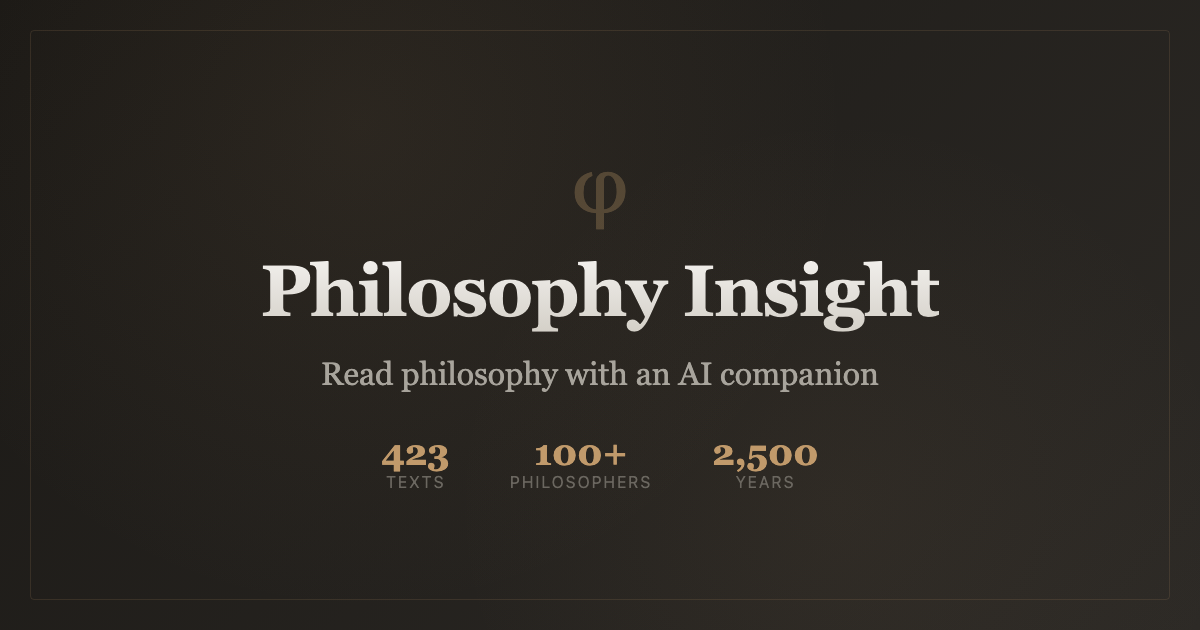
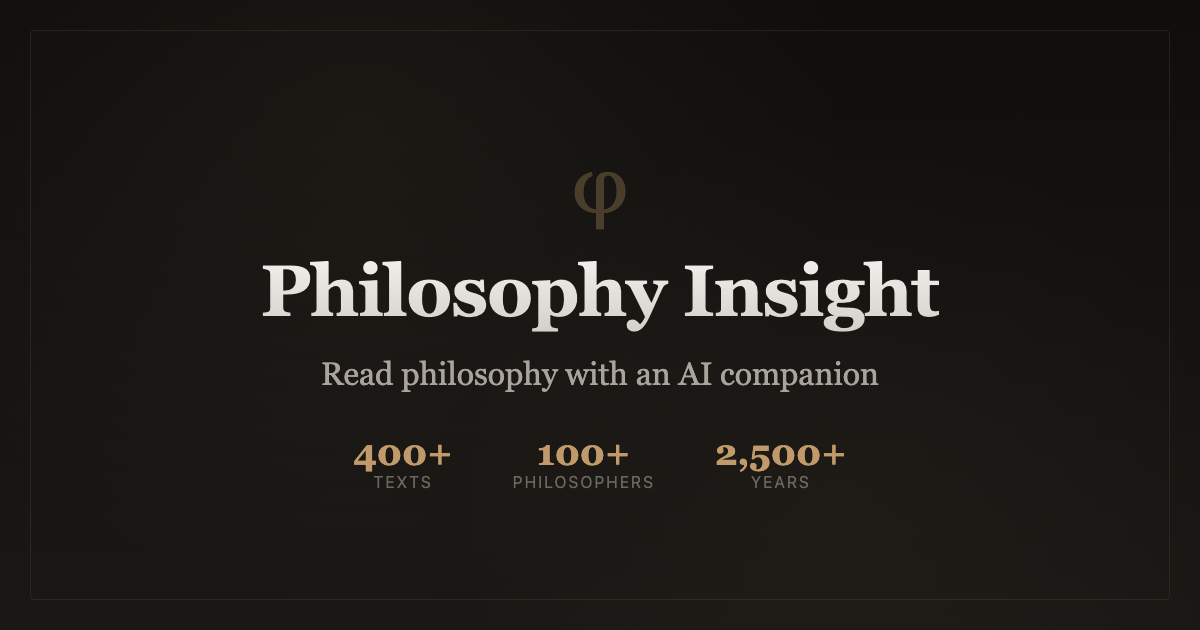
Update OG image and document new features in CLAUDE.md
- Regenerate OG image with darker tone and updated stats (400+)
- Document rate limiting configuration
- Add Privacy.tsx to architecture
- Add Deployment & SEO section with production URL

Changed region(s): [[0.5858, 0.6937, 0.7092, 0.7841], [0.4317, 0.6937, 0.555, 0.7841], [0.2775, 0.6937, 0.37, 0.7841]]

diff --git a/CLAUDE.md b/CLAUDE.md
@@ -44,7 +44,8 @@ curl -X POST http://localhost:8000/reload-texts
 ```
 /backend
   main.py           # FastAPI app - all routes, OpenAI integration, conversation storage
-  texts/*.json      # Philosophy texts as JSON (400 texts currently)
+  rate_limit.py     # Rate limiting configuration (slowapi)
+  texts/*.json      # Philosophy texts as JSON (400+ texts)
   scripts/
     import_gutenberg.py   # Generic Gutenberg parser with auto-structure detection
     import_marxists.py    # Marxists.org HTML parser for Marxist/Anarchist texts
@@ -75,6 +76,7 @@ curl -X POST http://localhost:8000/reload-texts
       Home.tsx            # Curated discovery experience with sections
       HowToUse.tsx        # Guide page for new users on using the app
       Philosophers.tsx    # Dedicated page showing all philosophers with portraits
+      Privacy.tsx         # Privacy policy page
       Reader.tsx          # Reading view with TOC, controls, keyboard nav, reading mode
     components/
       Reader.tsx          # Text display with selection popup
@@ -118,6 +120,13 @@ curl -X POST http://localhost:8000/reload-texts
 - `POST /chat` - Non-streaming chat endpoint (same routing logic)
 - `POST /generate-title` - Generate conversation title from first exchange (uses GPT-5 nano)
 - `DELETE /conversations/{id}` - Clear conversation
+
+**Rate Limiting:**
+Chat endpoints are rate-limited using slowapi to protect API costs:
+- `/chat/stream` and `/chat`: 50 requests/hour, 200 requests/day per IP
+- `/generate-title`: 100 requests/hour per IP
+- Returns 429 with friendly message when limit exceeded
+- Configuration in `backend/config.py` (`rate_limit_chat`, `rate_limit_title`)
 
 **Adaptive Routing System:**
 The chat endpoints use intelligent routing based on query complexity:
@@ -350,6 +359,21 @@ curl -X POST http://localhost:8000/reload-texts
 - Falls back to paragraph chunking (~600 char sections) for unstructured texts
 - Filters out table-of-contents entries automatically
 - Some texts may need manual review if structure detection fails
+
+## Deployment & SEO
+
+**Hosting:** Vercel (frontend auto-deploys on push to main)
+
+**Analytics:** Vercel Analytics (configured in App.tsx)
+
+**Open Graph / Social Sharing:**
+- Meta tags in `frontend/index.html` (og:title, og:description, og:image, twitter:card)
+- OG image at `frontend/public/og-image.png` (1200x630)
+- Test with https://opengraph.xyz after deploying
+
+**Production URL:** https://www.philosophyinsight.com/
+
+**GitHub:** https://github.com/max-raphael/philosophy-insight
 
 ## Claude Code Slash Commands
 
